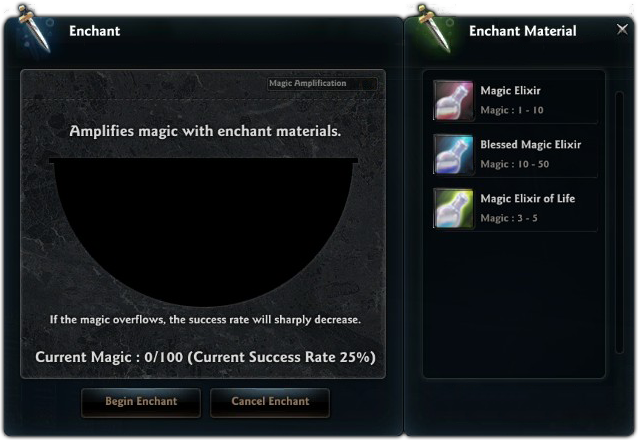
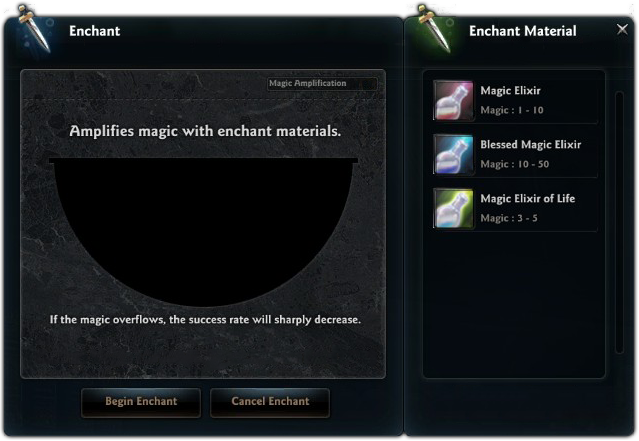
Angular: Adding elixirs; Bower: MersenneTwister

Changed region(s): [[0.0595, 0.7959, 0.5947, 0.8254]]

diff --git a/ferghus/brynn.html b/ferghus/brynn.html
@@ -11,8 +11,6 @@
         <link href="assets/lib/bootstrap/dist/css/bootstrap.min.css" rel="stylesheet">
         <link href="assets/css/common.css" rel="stylesheet">
         <link href="assets/css/brynn.css" rel="stylesheet">
-        <script src="assets/lib/angular/angular.min.js"></script>
-        <script src="assets/angular/app-brynn.js"></script>
     <head>
 
     <body>
@@ -25,12 +23,16 @@
 
         <div class="container-fluid">
             <div class="row">
-                <div id="enchant">
-                    <a id="magicElixir"></a>
-                    <a id="blessedMagicElixir"></a>
-                    <a id="magicElixirOfLife"></a>
-                    <a id="begin"></a>
-                    <a id="cancel"></a>
+                <div id="enchant" ng-controller="EnchantController as enchant">
+                    <div class="text" id="amp"></div>
+                    <div class="text" id="magic">
+                        Current Magic : {{enchant.magic}}/100 (Current Success Rate {{enchant.success}}%)
+                    </div>
+                    <div class="canClick" id="magicElixir" ng-click="enchant.addElixir(1)"></div>
+                    <div class="canClick" id="blessedMagicElixir" ng-click="enchant.addElixir(2)"></div>
+                    <div class="canClick" id="magicElixirOfLife" ng-click="enchant.addElixir(3)"></div>
+                    <div class="canClick" id="begin" ng-click="enchant.begin()"></div>
+                    <div class="canClick" id="cancel" ng-click="enchant.cancel()"></div>
                 </div>
                 <div id="brynn"></div>
                 <div id="greeting">
@@ -44,10 +46,13 @@
         </div>
 
         <!-- Placed at the end of the document so the page load faster -->
+        <script src="assets/lib/angular/angular.min.js"></script>
+        <script src="assets/angular/app-brynn.js"></script>
         <script src="assets/lib/jquery/dist/jquery.min.js"></script>
         <script src="assets/lib/bpopup/jquery.bpopup.min.js"></script>
         <script src="assets/lib/bootstrap/dist/js/bootstrap.min.js"></script>
         <script src="assets/lib/gsap/src/minified/TweenMax.min.js"></script>
+        <script src="assets/lib/mersennetwister/src/MersenneTwister.js"></script>
         <script src="assets/js/common.js"></script>
         <script src="assets/js/brynn.js"></script>
     </body>

diff --git a/ferghus/ferghus.html b/ferghus/ferghus.html
@@ -11,8 +11,6 @@
         <link href="assets/lib/bootstrap/dist/css/bootstrap.min.css" rel="stylesheet">
         <link href="assets/css/common.css" rel="stylesheet">
         <link href="assets/css/ferghus.css" rel="stylesheet">
-        <script src="assets/lib/angular/angular.min.js"></script>
-        <script src="assets/angular/app-ferghus.js"></script>
     <head>
 
     <body>
@@ -26,8 +24,8 @@
         <div class="container-fluid">
             <div class="row">
                 <div id="enhance">
-                    <a id="item"></a>
-                    <a id="begin"></a>
+                    <a class="canClick" id="item"></a>
+                    <a class="canClick" id="begin"></a>
                 </div>
                 <div id="ferghus"></div>
                 <div id="greeting">
@@ -41,10 +39,13 @@
         </div>
 
         <!-- Placed at the end of the document so the page load faster -->
+        <script src="assets/lib/angular/angular.min.js"></script>
+        <script src="assets/angular/app-ferghus.js"></script>
         <script src="assets/lib/jquery/dist/jquery.min.js"></script>
         <script src="assets/lib/bpopup/jquery.bpopup.min.js"></script>
         <script src="assets/lib/bootstrap/dist/js/bootstrap.min.js"></script>
         <script src="assets/lib/gsap/src/minified/TweenMax.min.js"></script>
+        <script src="assets/lib/mersennetwister/src/MersenneTwister.js"></script>
         <script src="assets/js/common.js"></script>
         <script src="assets/js/ferghus.js"></script>
     </body>

diff --git a/ferghus/assets/angular/app-brynn.js b/ferghus/assets/angular/app-brynn.js
@@ -1,4 +1,52 @@
 /** Angular App Code */
 (function() {
 	var app = angular.module('brynn', [ ]);
+
+	app.controller('EnchantController', function() {
+		this.magic = 0;
+		this.successStart = 25;
+		this.successEnd = 40;
+		this.success = this.successStart;
+
+		this.calcSuccess = function() {
+			this.success = Math.floor(this.successStart + (this.successEnd - this.successStart) * (this.magic / 100.0));
+		}
+
+		this.addMagic = function(br) {
+			this.magic = this.magic + br;
+			this.calcSuccess();
+		}
+
+		this.addElixir = function(elixir) {
+			var brMin;
+			var brMax;
+			switch (elixir)
+			{
+				case 1:
+					brMin = 1;
+					brMax = 10;
+					break;
+				case 2:
+					brMin = 10;
+					brMax = 50;
+					break;
+				case 3:
+					brMin = 3;
+					brMax = 5;
+					break;
+				default:
+					break;
+			}
+			this.addMagic(randomInt(brMin, brMax));
+		};
+
+		this.begin = function() {
+			
+		}
+
+		this.cancel = function() {
+			this.magic = 0;
+			this.calcSuccess();
+		}
+	})
 })();

diff --git a/ferghus/assets/css/common.css b/ferghus/assets/css/common.css
@@ -3,7 +3,7 @@ body {
 	padding-right: 24px;
 	cursor: url(/assets/img/cursor/Hero_Normal.cur), auto;
 }
-a, #mute {
+a, #mute, .canClick {
 	cursor: url(/assets/img/cursor/Hero_press.cur) 7 0, auto;
 }
 h2 {
@@ -27,7 +27,7 @@ h3 {
 @media screen and (max-width: 1280px) {
 	#bg {
 		left: 50%;
-		margin-left: -512px;
+		margin-left: -640px;
 	}
 }
 
@@ -57,7 +57,7 @@ h3 {
 	background-image: url(/assets/img/texture.jpg);
 	border: 1px solid #000;
     border-radius: 5px;
-    box-shadow: inset 0 0 5px #999,0 0 5px #000;
+    box-shadow: inset 0 0 5px #999, 0 0 5px #000;
     position: absolute;
     top: 0;
     right: 0;

diff --git a/ferghus/assets/css/brynn.css b/ferghus/assets/css/brynn.css
@@ -10,11 +10,26 @@
 	left: 8px;
 	z-index: 3;
 }
-#enchant a {
+#enchant div {
 	/*background-color: rgba(0, 0, 0, 0.5);
 	border: solid 1px;
 	border-color: rgba(255, 255, 255, 0.5);*/
 	position: absolute;
+	z-index: 4;
+}
+#enchant .text#amp {
+
+}
+#enchant .text#magic {
+	width: 366px;
+	height: 24px;
+	left: 20px;
+	top: 348px;
+	color: #cacaca;
+	font-family: sans-serif;
+	font-size: 0.92em;
+	font-weight: bold;
+	text-align: center;
 }
 #enchant #magicElixir {
 	width: 166px;

diff --git a/ferghus/assets/js/common.js b/ferghus/assets/js/common.js
@@ -1,3 +1,15 @@
+// Helper functions
+var mt = new MersenneTwister();
+function randomInt(min, max) {
+	return Math.floor(mt.random() * (max - min + 1) + min);
+}
+function randomFloat(min, max) {
+	return mt.random() * (max - min) + min;
+}
+
+// Prevent text selection
+$("body").mousedown(function(e){ e.preventDefault(); });
+
 // Endless sway ease for BG
 function bgSway() {
 	var bg = $("#bg");
